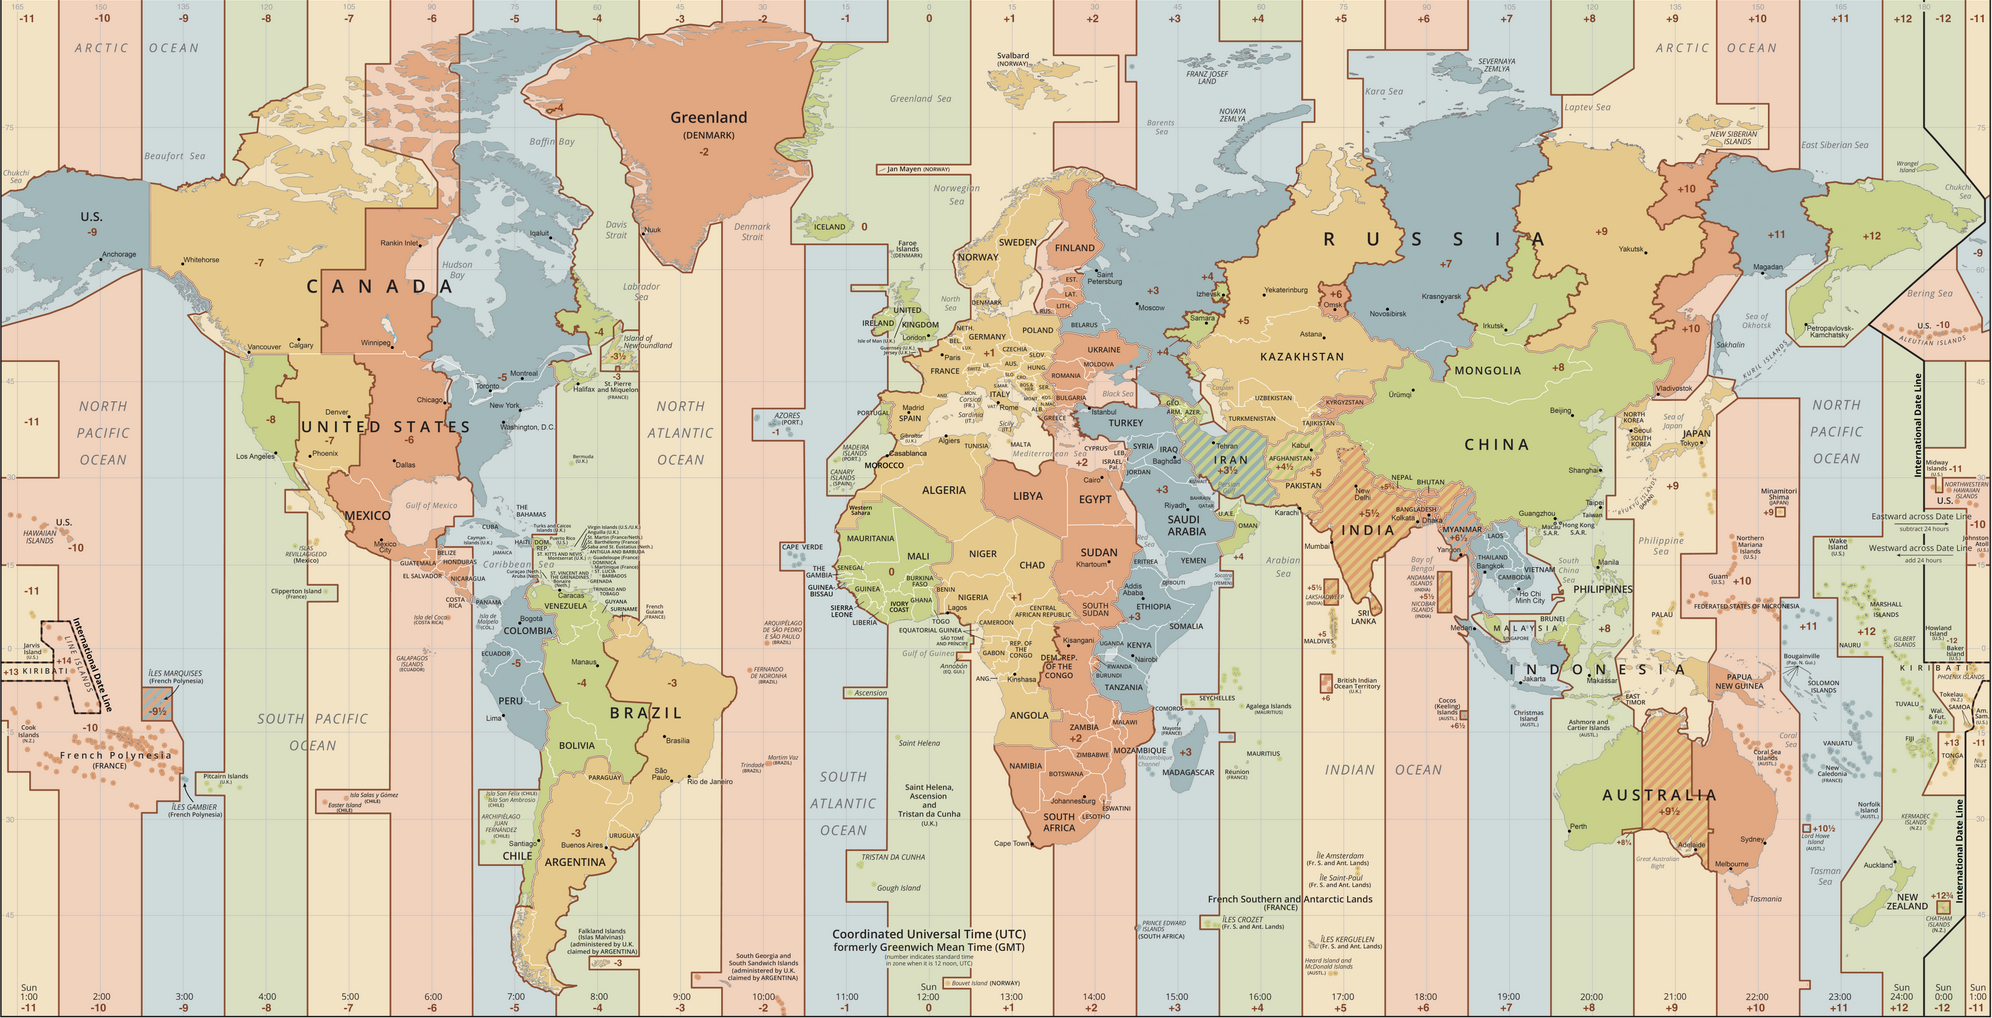
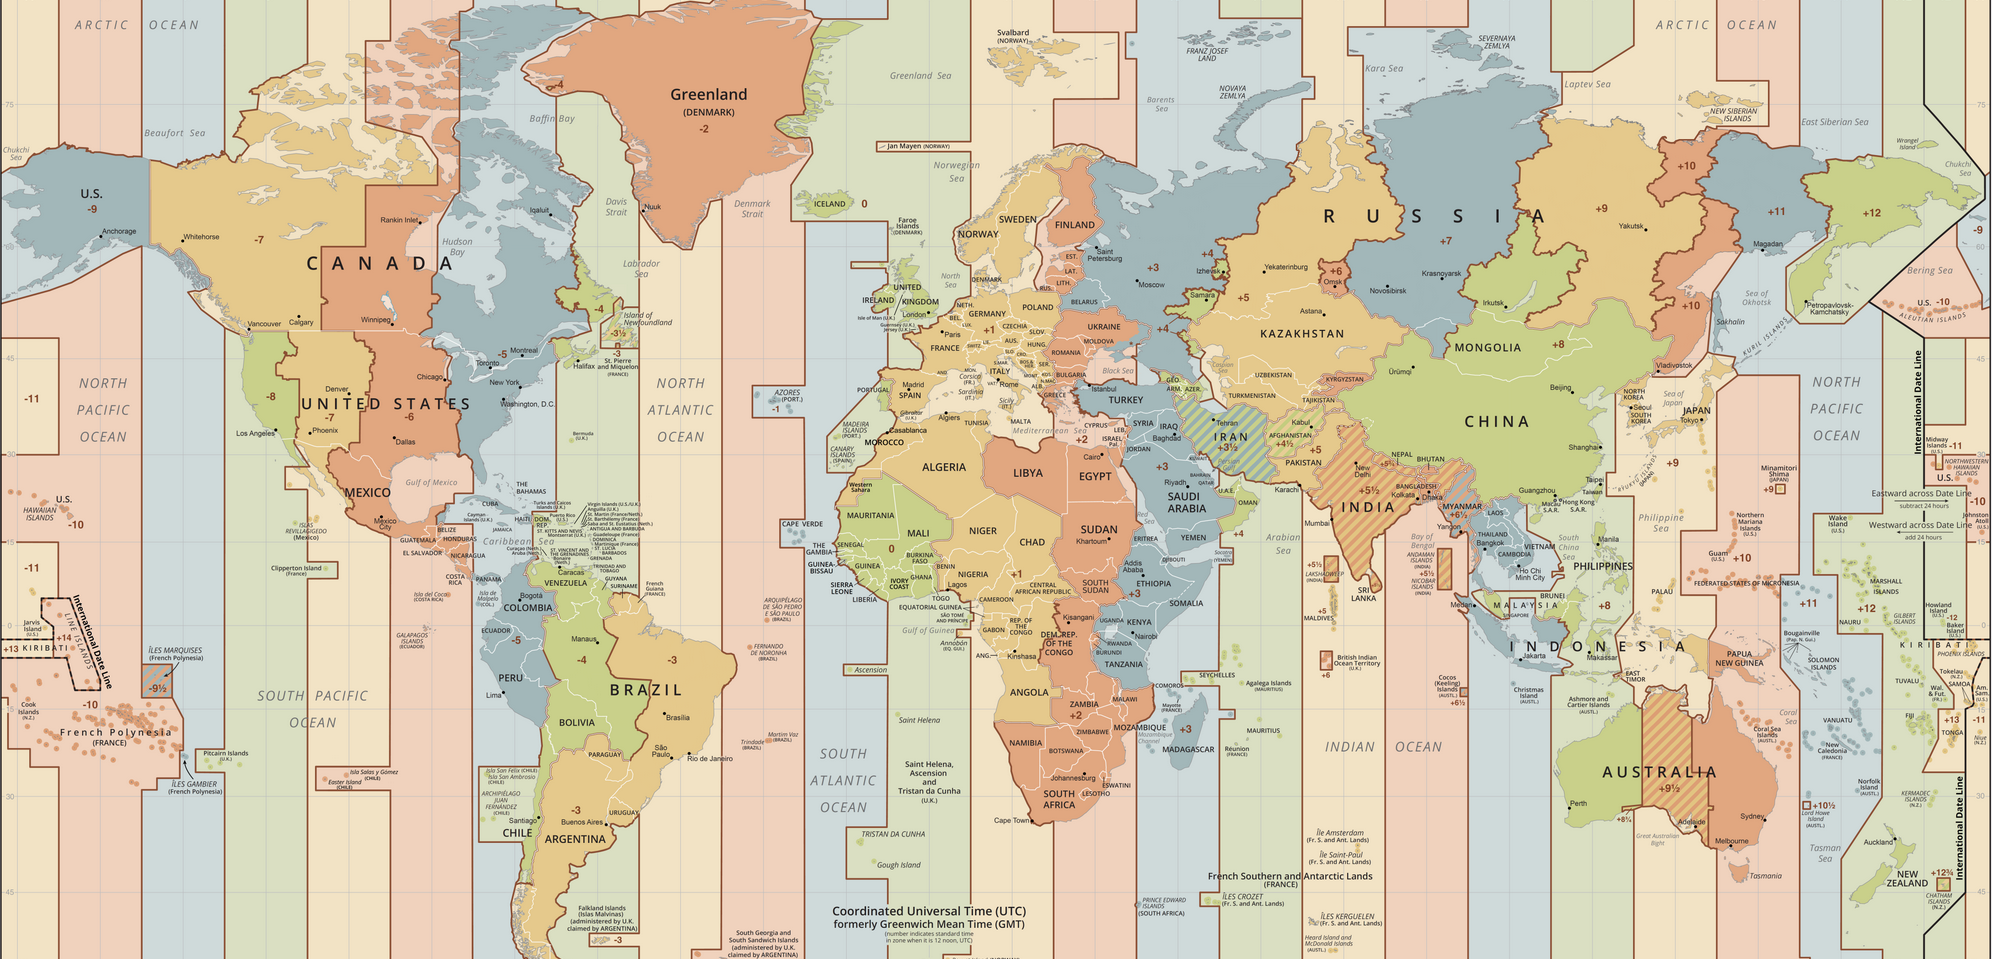
feat: add world map as bg / add title for 2 small clocks and Main title

diff --git a/src/index.css b/src/index.css
@@ -30,82 +30,13 @@
   }
 }
 
-@media (prefers-color-scheme: dark) {
-  :root {
-    --text: #9ca3af;
-    --text-h: #f3f4f6;
-    --bg: #16171d;
-    --border: #2e303a;
-    --code-bg: #1f2028;
-    --accent: #c084fc;
-    --accent-bg: rgba(192, 132, 252, 0.15);
-    --accent-border: rgba(192, 132, 252, 0.5);
-    --social-bg: rgba(47, 48, 58, 0.5);
-    --shadow:
-      rgba(0, 0, 0, 0.4) 0 10px 15px -3px, rgba(0, 0, 0, 0.25) 0 4px 6px -2px;
-  }
-
-  #social .button-icon {
-    filter: invert(1) brightness(2);
-  }
-}
-
 #root {
   width: 1126px;
   max-width: 100%;
   margin: 0 auto;
   text-align: center;
-  border-inline: 1px solid var(--border);
   min-height: 100svh;
   display: flex;
   flex-direction: column;
   box-sizing: border-box;
-}
-
-body {
-  margin: 0;
-}
-
-h1,
-h2 {
-  font-family: var(--heading);
-  font-weight: 500;
-  color: var(--text-h);
-}
-
-h1 {
-  font-size: 56px;
-  letter-spacing: -1.68px;
-  margin: 32px 0;
-  @media (max-width: 1024px) {
-    font-size: 36px;
-    margin: 20px 0;
-  }
-}
-h2 {
-  font-size: 24px;
-  line-height: 118%;
-  letter-spacing: -0.24px;
-  margin: 0 0 8px;
-  @media (max-width: 1024px) {
-    font-size: 20px;
-  }
-}
-p {
-  margin: 0;
-}
-
-code,
-.counter {
-  font-family: var(--mono);
-  display: inline-flex;
-  border-radius: 4px;
-  color: var(--text-h);
-}
-
-code {
-  font-size: 15px;
-  line-height: 135%;
-  padding: 4px 8px;
-  background: var(--code-bg);
 }

diff --git a/src/App.tsx b/src/App.tsx
@@ -6,11 +6,22 @@ import { ClockPlus } from './components/ClockPlus';
 import { WorldMap } from './components/WorldMap';
 
 const style = {
-  display: 'flex' as const,
-  flexDirection: 'row' as const,
-  justifyContent: 'center' as const,
-  alignItems: 'center' as const,
-  gap: '10px' as const,
+  wrapper: {
+    display: 'flex' as const,
+    flexDirection: 'row' as const,
+    justifyContent: 'center' as const,
+    alignItems: 'center' as const,
+    gap: '10px' as const,
+    marginTop: '90px' as const,
+  },
+  title: {
+    fontSize: '28px' as const,
+    fontWeight: 'bold' as const,
+    position: 'absolute' as const,
+    top: '10px' as const,
+    left: '50%' as const,
+    transform: 'translateX(-50%)' as const,
+  },
 };
 
 function App() {
@@ -18,7 +29,8 @@ function App() {
 
   return (
     <>
-      <div style={style}>
+      <p style={style.title}>World Time Zones</p>
+      <div style={style.wrapper}>
         <ClockMinus offsetHours={offsetHours} />
         <ClockMain
           offsetHours={offsetHours}
@@ -26,7 +38,6 @@ function App() {
         />
         <ClockPlus offsetHours={offsetHours} />
       </div>
-
       <WorldMap offsetHours={offsetHours} />
     </>
   );

diff --git a/src/components/ClockMain.tsx b/src/components/ClockMain.tsx
@@ -69,11 +69,7 @@ export function ClockMain({
     const snappedAngle = snapAngleToHour(pointerAngle); // 0..359 step of 30
     const targetHourIndex = snappedAngle / 30; // 0..11
 
-    const diff = resolveHourOffset(
-      baseHourIndex,
-      targetHourIndex,
-      offsetHours,
-    );
+    const diff = resolveHourOffset(baseHourIndex, targetHourIndex, offsetHours);
 
     onOffsetHoursChange?.(diff);
   }
@@ -99,7 +95,9 @@ export function ClockMain({
     };
   }, []);
 
-  const cssVars = { '--angle-deg': `${displayAngleDeg}deg` } as React.CSSProperties;
+  const cssVars = {
+    '--angle-deg': `${displayAngleDeg}deg`,
+  } as React.CSSProperties;
 
   function onPointerDown(e: React.PointerEvent<HTMLDivElement>) {
     // Left mouse button only (touch/pen has button=0 or undefined depending on browser).
@@ -156,6 +154,7 @@ export function ClockMain({
         aria-label='Draggable clock hand'
       />
       <div className={styles.centerCap} />
+      <p className={styles.title}>Your Hour</p>
     </div>
   );
 }

diff --git a/src/components/ClockMinus.tsx b/src/components/ClockMinus.tsx
@@ -50,7 +50,8 @@ export function ClockMinus({ offsetHours = 0 }: ClockMinusProps) {
   const displayAngleDeg = useUnwrappedDisplayAngle(angleDeg);
 
   const cssVars = {
-    '--angle-deg': `${displayAngleDeg}deg`,    '--size': '160px',
+    '--angle-deg': `${displayAngleDeg}deg`,
+    '--size': '160px',
     '--bg': 'rgb(0, 170, 80)',
   } as CSSProperties;
 
@@ -71,6 +72,7 @@ export function ClockMinus({ offsetHours = 0 }: ClockMinusProps) {
       </div>
       <div className={styles.hand} style={{ width: '0.4rem' }} />
       <div className={styles.centerCap} />
+      <p className={styles.title}>-1 Hour</p>
     </div>
   );
 }

diff --git a/src/components/ClockPlus.tsx b/src/components/ClockPlus.tsx
@@ -50,7 +50,8 @@ export function ClockPlus({ offsetHours = 0 }: ClockPlusProps) {
   const displayAngleDeg = useUnwrappedDisplayAngle(angleDeg);
 
   const cssVars = {
-    '--angle-deg': `${displayAngleDeg}deg`,    '--size': '160px',
+    '--angle-deg': `${displayAngleDeg}deg`,
+    '--size': '160px',
     '--bg': 'rgb(255, 215, 0)',
   } as CSSProperties;
 
@@ -71,6 +72,7 @@ export function ClockPlus({ offsetHours = 0 }: ClockPlusProps) {
       </div>
       <div className={styles.hand} style={{ width: '0.4rem' }} />
       <div className={styles.centerCap} />
+      <p className={styles.title}>+1 Hour</p>
     </div>
   );
 }

diff --git a/src/styles/worldMap.module.css b/src/styles/worldMap.module.css
@@ -1,6 +1,11 @@
 .worldMap {
   width: 100%;
-  margin-top: 1rem;
+  margin-top: 5rem;
+  background-image: url('../assets/world_map.png');
+  background-size: cover;
+  background-position: center;
+  background-repeat: no-repeat;
+  background-position-y: 18px;
 }
 
 .grid {
@@ -21,7 +26,7 @@
 }
 
 .zoneHeader {
-  padding: 4px 2px;
+  padding: 2px;
   font-size: 11px;
   line-height: 1.2;
   text-align: center;

diff --git a/src/styles/clockMain.module.css b/src/styles/clockMain.module.css
@@ -126,6 +126,15 @@
   box-shadow: 0 4px 10px rgba(0, 0, 0, 0.25);
 }
 
+.title {
+  position: relative;
+  left: 50%;
+  top: 100%;
+  margin-top: 30px;
+  transform: translate(-50%, -50%);
+  font-size: 22px;
+}
+
 .srOnly {
   position: absolute;
   width: 1px;
